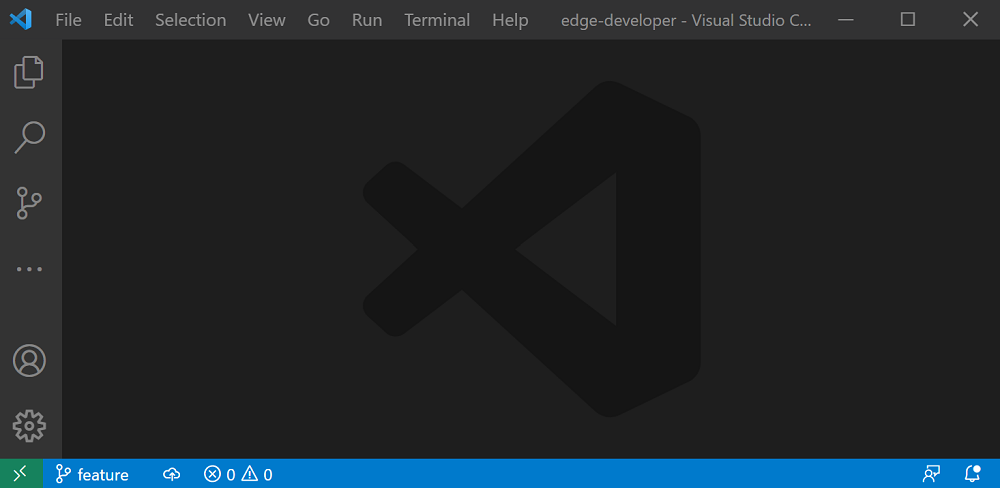
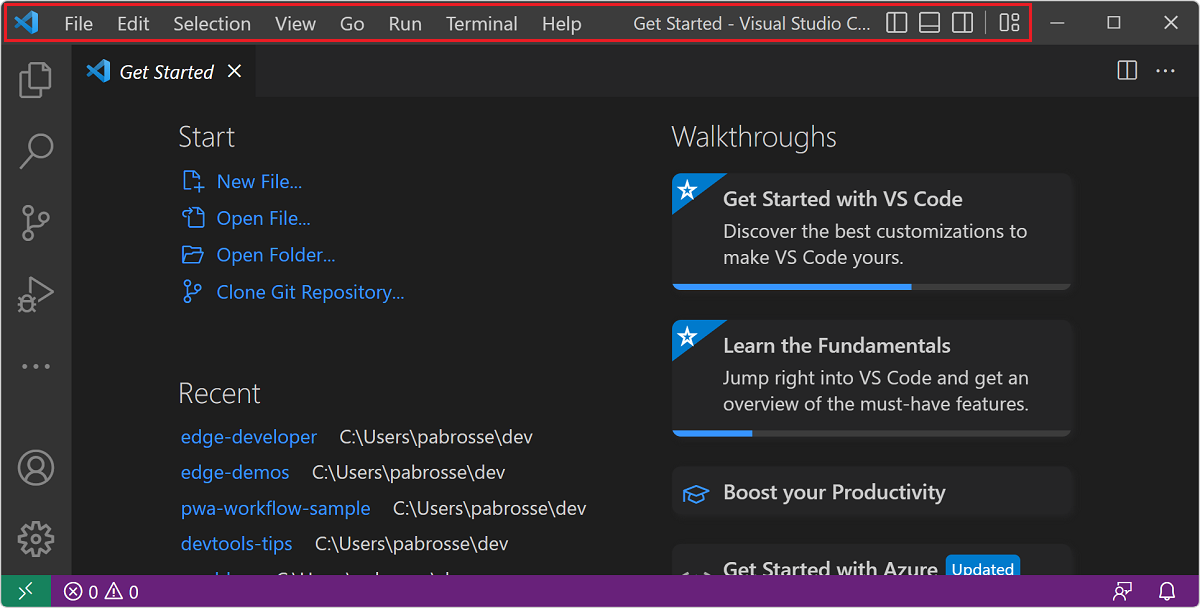
Update to the WCO docs

diff --git a/microsoft-edge/progressive-web-apps-chromium/how-to/window-controls-overlay.md b/microsoft-edge/progressive-web-apps-chromium/how-to/window-controls-overlay.md
@@ -6,15 +6,15 @@ ms.author: msedgedevrel
 ms.topic: conceptual
 ms.prod: microsoft-edge
 ms.technology: pwa
-ms.date: 09/02/2021
+ms.date: 09/01/2022
 ---
 # Display content in the title bar
 
-A PWA can define how it should be displayed on mobile platforms, by using the [display](https://developer.mozilla.org/docs/Web/Manifest/display) property in the app manifest file.  However, to create an immersive, native-like experience, _desktop_ PWAs can't use this approach.
+A PWA can define how it should be displayed on mobile platforms, by using the [display](https://developer.mozilla.org/docs/Web/Manifest/display) member in the web app manifest file.  However, to create an immersive, native-like experience, _desktop_ PWAs can use another  approach.
 
-By default, the app area starts immediately below the reserved title bar area:
+By default, a PWA installed on desktop can display content in an area that starts immediately below the reserved title bar area:
 
-![The default Windows app title bar shown on the My Tracks demo app.](../media/my-tracks-titlebar.png)
+![A PWA app on Windows showing that the app content is displayed below the reserved title bar area.](../media/wco-reserved-titlebar.png)
 
 Displaying content where the title bar normally is can help PWAs feel more native.  Many desktop applications, such as Visual Studio Code, Microsoft Teams, and Microsoft Edge already do this:
 
@@ -27,31 +27,13 @@ The Window Controls Overlay API does the following:
 
 
 <!-- ====================================================================== -->
-## Enable the Window Controls Overlay API in Microsoft Edge
-
-The Window Controls Overlay API is experimental and must be enabled in Microsoft Edge, to use it.
-
-To enable the Window Controls Overlay API:
-
-1.  In Microsoft Edge, go to `edge://flags`.
-1.  Select **Search flags** and then type "window controls overlay".
-1.  Select **Default** > **Enabled** > **Restart**.
-
-    ![Enable the Window Controls Overlay API experiment.](../media/enable-window-controls-overlay-experiment.png)
-
-The Window Controls Overlay API is also available as an origin trials feature.  For your app's users to benefit from the Window Controls Overlay without having to enable it in Microsoft Edge, you can use an origin trial.
-
-For more information about Origin Trials, go to [Microsoft Edge Origin Trials Developer Console](https://developer.microsoft.com/microsoft-edge/origin-trials).
-
-
-<!-- ====================================================================== -->
 ## Enable the Window Controls Overlay in your app
 
 The first thing to do is to enable the Window Controls Overlay feature in your app's [Web App Manifest file](web-app-manifests.md).  To do this, in the manifest file, set the `display_override` property:
 
 ```json
 {
-    "display_override": ["window-controls-overlay"]
+  "display_override": ["window-controls-overlay"]
 }
 ```
 
@@ -61,7 +43,7 @@ The first thing to do is to enable the Window Controls Overlay feature in your a
 
 When the Window Controls Overlay feature is enabled, the user can choose to have the title bar or not, by clicking the title bar toggle button:
 
-![Select the title bar toggle button.](../media/my-tracks-titlebar-toggle.png)
+![Select the title bar toggle button.](../media/wco-toggle-button.png)
 
 Your code can't assume that the window controls overlay is displayed, because:
 *  The user can choose whether to display the title bar.
@@ -79,20 +61,20 @@ Four environment variables are added by the Window Controls Overlay feature:
 
 | Variable | Description |
 |:--- |:---
-| `titlebar-area-x` | Distance, in `px`, of the overlay from the left side of the window |
-| `titlebar-area-y` | Distance, in `px`, of the overlay from the top side of the window |
-| `titlebar-area-width` | Width of the overlay, in `px` |
-| `titlebar-area-height` | Height of the overlay, in `px` |
+| `titlebar-area-x` | Distance, in `px`, of the area normally occupied by the title bar from the left side of the window |
+| `titlebar-area-y` | Distance, in `px`, of the area normally occupied by the title bar from the top side of the window |
+| `titlebar-area-width` | Width of the title bar area, in `px` |
+| `titlebar-area-height` | Height of the title bar area, in `px` |
 
-You can use these environment variables to position and size your app's title bar:
+You can use these environment variables to position and size your own content where the title bar would normally appear, when the window controls overlay feature is disabled:
 
 ```css
 #title-bar {
-    position: fixed;
-    left: env(titlebar-area-x);
-    top: env(titlebar-area-y);
-    height: env(titlebar-area-height);
-    width: env(titlebar-area-width);
+  position: fixed;
+  left: env(titlebar-area-x, 0);
+  top: env(titlebar-area-y, 0);
+  height: env(titlebar-area-height, 50px);
+  width: env(titlebar-area-width, 100%);
 }
 ```
 
@@ -100,22 +82,24 @@ Using `position: fixed;` makes sure your title bar does not scroll with the rest
 
 Knowing where the overlay is and how big it is is important.  The overlay might not always be on the same side of the window; on macOS, the overlay is on the left side, but on Windows, the overlay is on the right side.  Also, the overlay might not always be the same size.
 
+Note that the `env()` CSS function takes a second parameter useful to define the position of your app content when the window controls overlay feature is missing or disabled.
+
 
 <!-- ====================================================================== -->
 ## Make regions of your app drag handlers for the window
 
-When the title bar is hidden, only the system-critical window controls remain visible (the **Maximize**, **Minimize**, **Close**, and **App Info** icons).  This means that there is very little space available for users to move the app around.
+When the title bar is hidden, only the system-critical window controls remain visible (the **Maximize**, **Minimize**, **Close**, and **App Info** icons).  This means that there is very little space available for users to move the application window around.
 
 You can use the `-webkit-app-region` CSS property to offer more ways for users to drag the app.  For example, if your app has its own titlebar, you can turn its titlebar into a window drag handler:
 
 ```css
 #title-bar {
-    position: absolute;
-    left: env(titlebar-area-x);
-    top: env(titlebar-area-y);
-    height: env(titlebar-area-height);
-    width: env(titlebar-area-width);
-    -webkit-app-region: drag;
+  position: fixed;
+  left: env(titlebar-area-x, 0);
+  top: env(titlebar-area-y, 0);
+  height: env(titlebar-area-height, 50px);
+  width: env(titlebar-area-width, 100%);
+  -webkit-app-region: drag;
 }
 ```
 
@@ -123,12 +107,11 @@ You can use the `-webkit-app-region` CSS property to offer more ways for users t
 <!-- ====================================================================== -->
 ## React to overlay changes
 
-A user can toggle the title bar or change the window dimensions while the app is running.  Knowing when these things happen can be important for your app.  Your app might need to rearrange some of the content that's displayed in the title bar, or rearrange your layout elsewhere on the page.
+A user can toggle the title bar or change the window dimensions while the app is running.  Knowing when these things happen can be important for your app.  Your app might need to rearrange some of the content that's displayed in the title bar, or rearrange the layout elsewhere on the page.
 
-To listen for changes, use the `geometrychange` event.  To detect whether the title bar is visible, use the `visible` property on the `navigator.windowControlsOverlay` object.
+To listen for changes, use the `geometrychange` event on the `navigator.windowControlsOverlay` object.  To detect whether the title bar is visible, use the `visible` property on the `navigator.windowControlsOverlay` object.
 
-> [!NOTE]
-> The `geometrychange` is fired very frequently when the user resizes the window.  To avoid running layout-changing code too often and causing performance problems in your app, use a `debounce` function to limit how many times the event is handled.  See [The Difference Between Throttling and Debouncing](https://css-tricks.com/the-difference-between-throttling-and-debouncing/).
+Note that the `geometrychange` is fired very frequently when the user resizes the window.  To avoid running layout-changing code too often and causing performance problems in your app, use a `debounce` function to limit how many times the event is handled.  See [The Difference Between Throttling and Debouncing](https://css-tricks.com/the-difference-between-throttling-and-debouncing/).
 
 ```javascript
 const debounce = (func, wait) => {
@@ -144,14 +127,15 @@ const debounce = (func, wait) => {
 };
 
 if ('windowControlsOverlay' in navigator) {
-    navigator.windowControlsOverlay.addEventListener('geometrychange', debounce(e => {
-        // Detect if the Window Controls Overlay is visible.
-        const isOverlayVisible = navigator.windowControlsOverlay.visible;
-        // Get the size and position of the title bar area.
-        const titleBarRect = e.titlebarAreaRect;
+  navigator.windowControlsOverlay.addEventListener('geometrychange', debounce(e => {
+    // Detect if the Window Controls Overlay is visible.
+    const isOverlayVisible = navigator.windowControlsOverlay.visible;
 
-        console.log(`The overlay is ${isOverlayVisible ? 'visible' : 'hidden'}, the title bar width is ${titleBarRect.width}px`);
-    }, 200));
+    // Get the size and position of the title bar area.
+    const titleBarRect = e.titlebarAreaRect;
+
+    console.log(`The overlay is ${isOverlayVisible ? 'visible' : 'hidden'}, the title bar width is ${titleBarRect.width}px`);
+  }, 200));
 }
 ```
 
@@ -159,25 +143,23 @@ if ('windowControlsOverlay' in navigator) {
 <!-- ====================================================================== -->
 ## Demo app
 
-My Tracks is a PWA demo app that uses the Window Controls Overlay feature.
+1DIV is a PWA demo app that uses the Window Controls Overlay feature.
 
-1. In Microsoft Edge, [Enable the Window Controls Overlay](#enable-the-window-controls-overlay-in-your-app).
+1. In Microsoft Edge, go to [1DIV](https://microsoftedge.github.io/Demos/1DIV/dist/) and install the app.
 
-2. Go to [My Tracks](https://captainbrosset.github.io/mytracks/) and install the app.
+1. Click **Hide title bar** in the app title bar.
 
-3. Select the **Hide title bar** button from the app title bar.
+   The app now displays content all the way to the top of the window frame, where the title bar used to be.  The top area of the app is a drag handler, to let users move the window.
 
-   The app now displays content all the way to the top of the window frame, where the title bar used to be.  The top area of the map is a drag handler, to let the user move the window.
+   ![The top area of the map can be used to move the window.](../media/wco-draggable-titlebar.png)
 
-   ![The top area of the map can be used to move the window.](../media/my-tracks-draggable-titlebar.png)
+The source code for this demo app is in the [1DIV](https://github.com/MicrosoftEdge/Demos/tree/main/1DIV) repo.
 
-The source code for this app is in the [My Tracks](https://github.com/captainbrosset/mytracks) repo.
+* The [manifest.json](https://github.com/MicrosoftEdge/Demos/blob/main/1DIV/dist/manifest.json) source file declares the app's use of the Window Controls Overlay feature.
 
-* The [manifest.json](https://github.com/captainbrosset/mytracks/blob/main/mytracks/manifest.json) source file declares the app's use of the Window Controls Overlay feature.
+* The [app.js](https://github.com/MicrosoftEdge/Demos/blob/main/1DIV/src/app.js) source file uses the `navigator.windowControlsOverlay` object.
 
-* The [overlay.js](https://github.com/captainbrosset/mytracks/blob/main/src/overlay.js) source file uses the `navigator.windowControlsOverlay` object.
-
-* The [style.css](https://github.com/captainbrosset/mytracks/blob/main/mytracks/style.css) source file uses the `titlebar-area-height` CSS environment variable.
+* The [app.css](https://github.com/MicrosoftEdge/Demos/blob/main/1DIV/dist/app.css) source file uses the `titlebar-area-*` CSS environment variables.
 
 
 <!-- ====================================================================== -->
